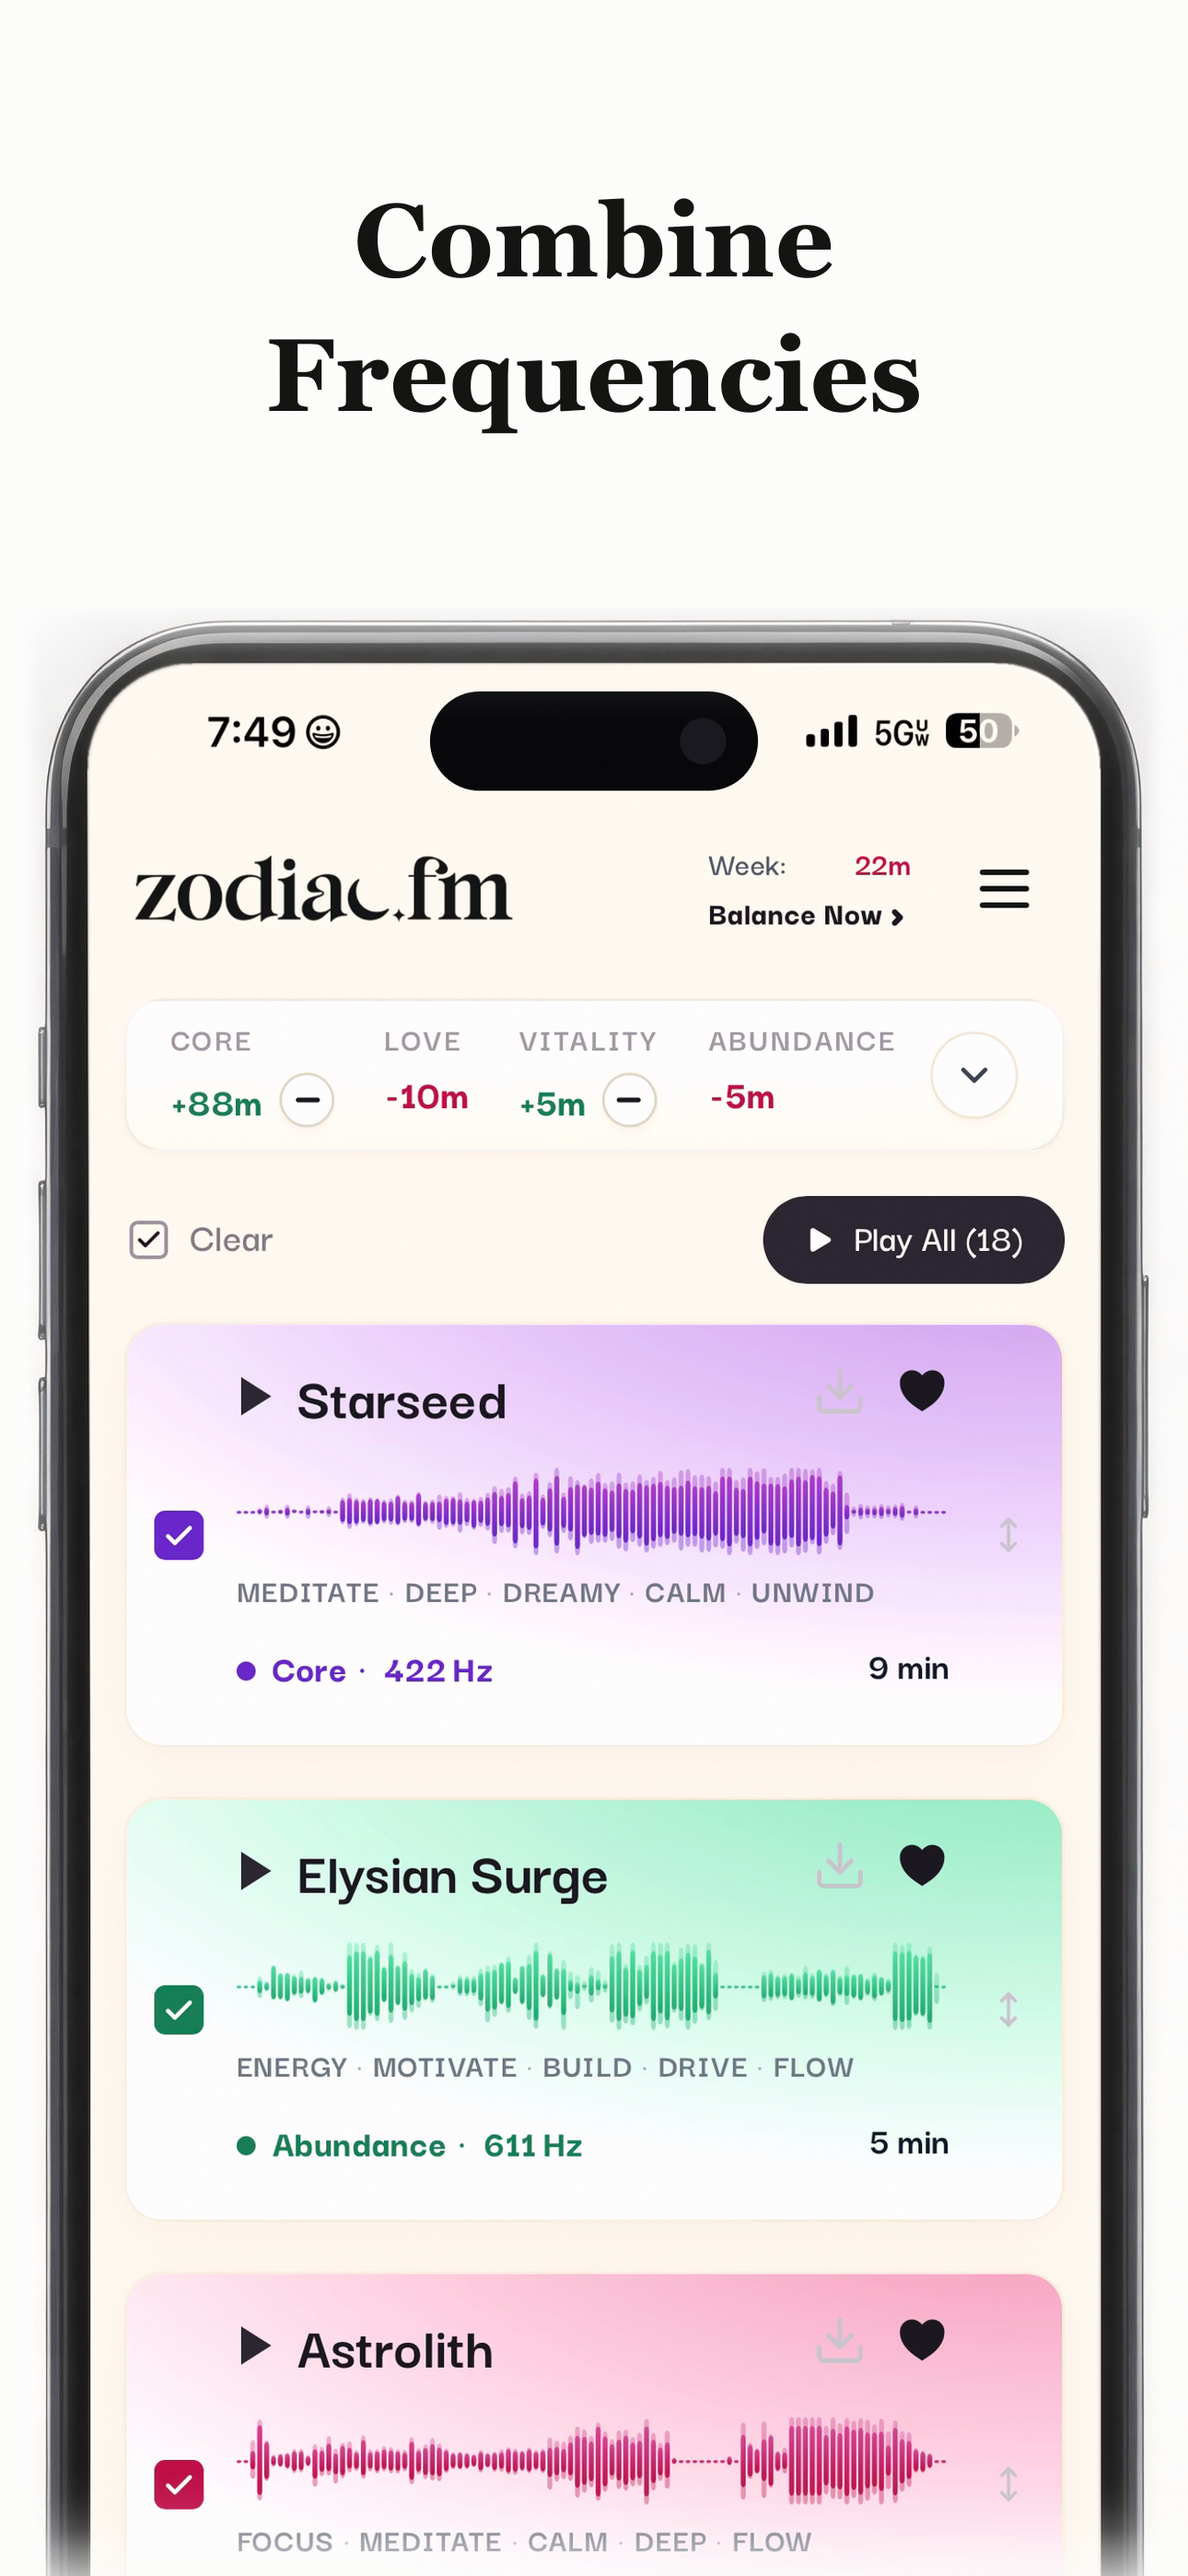
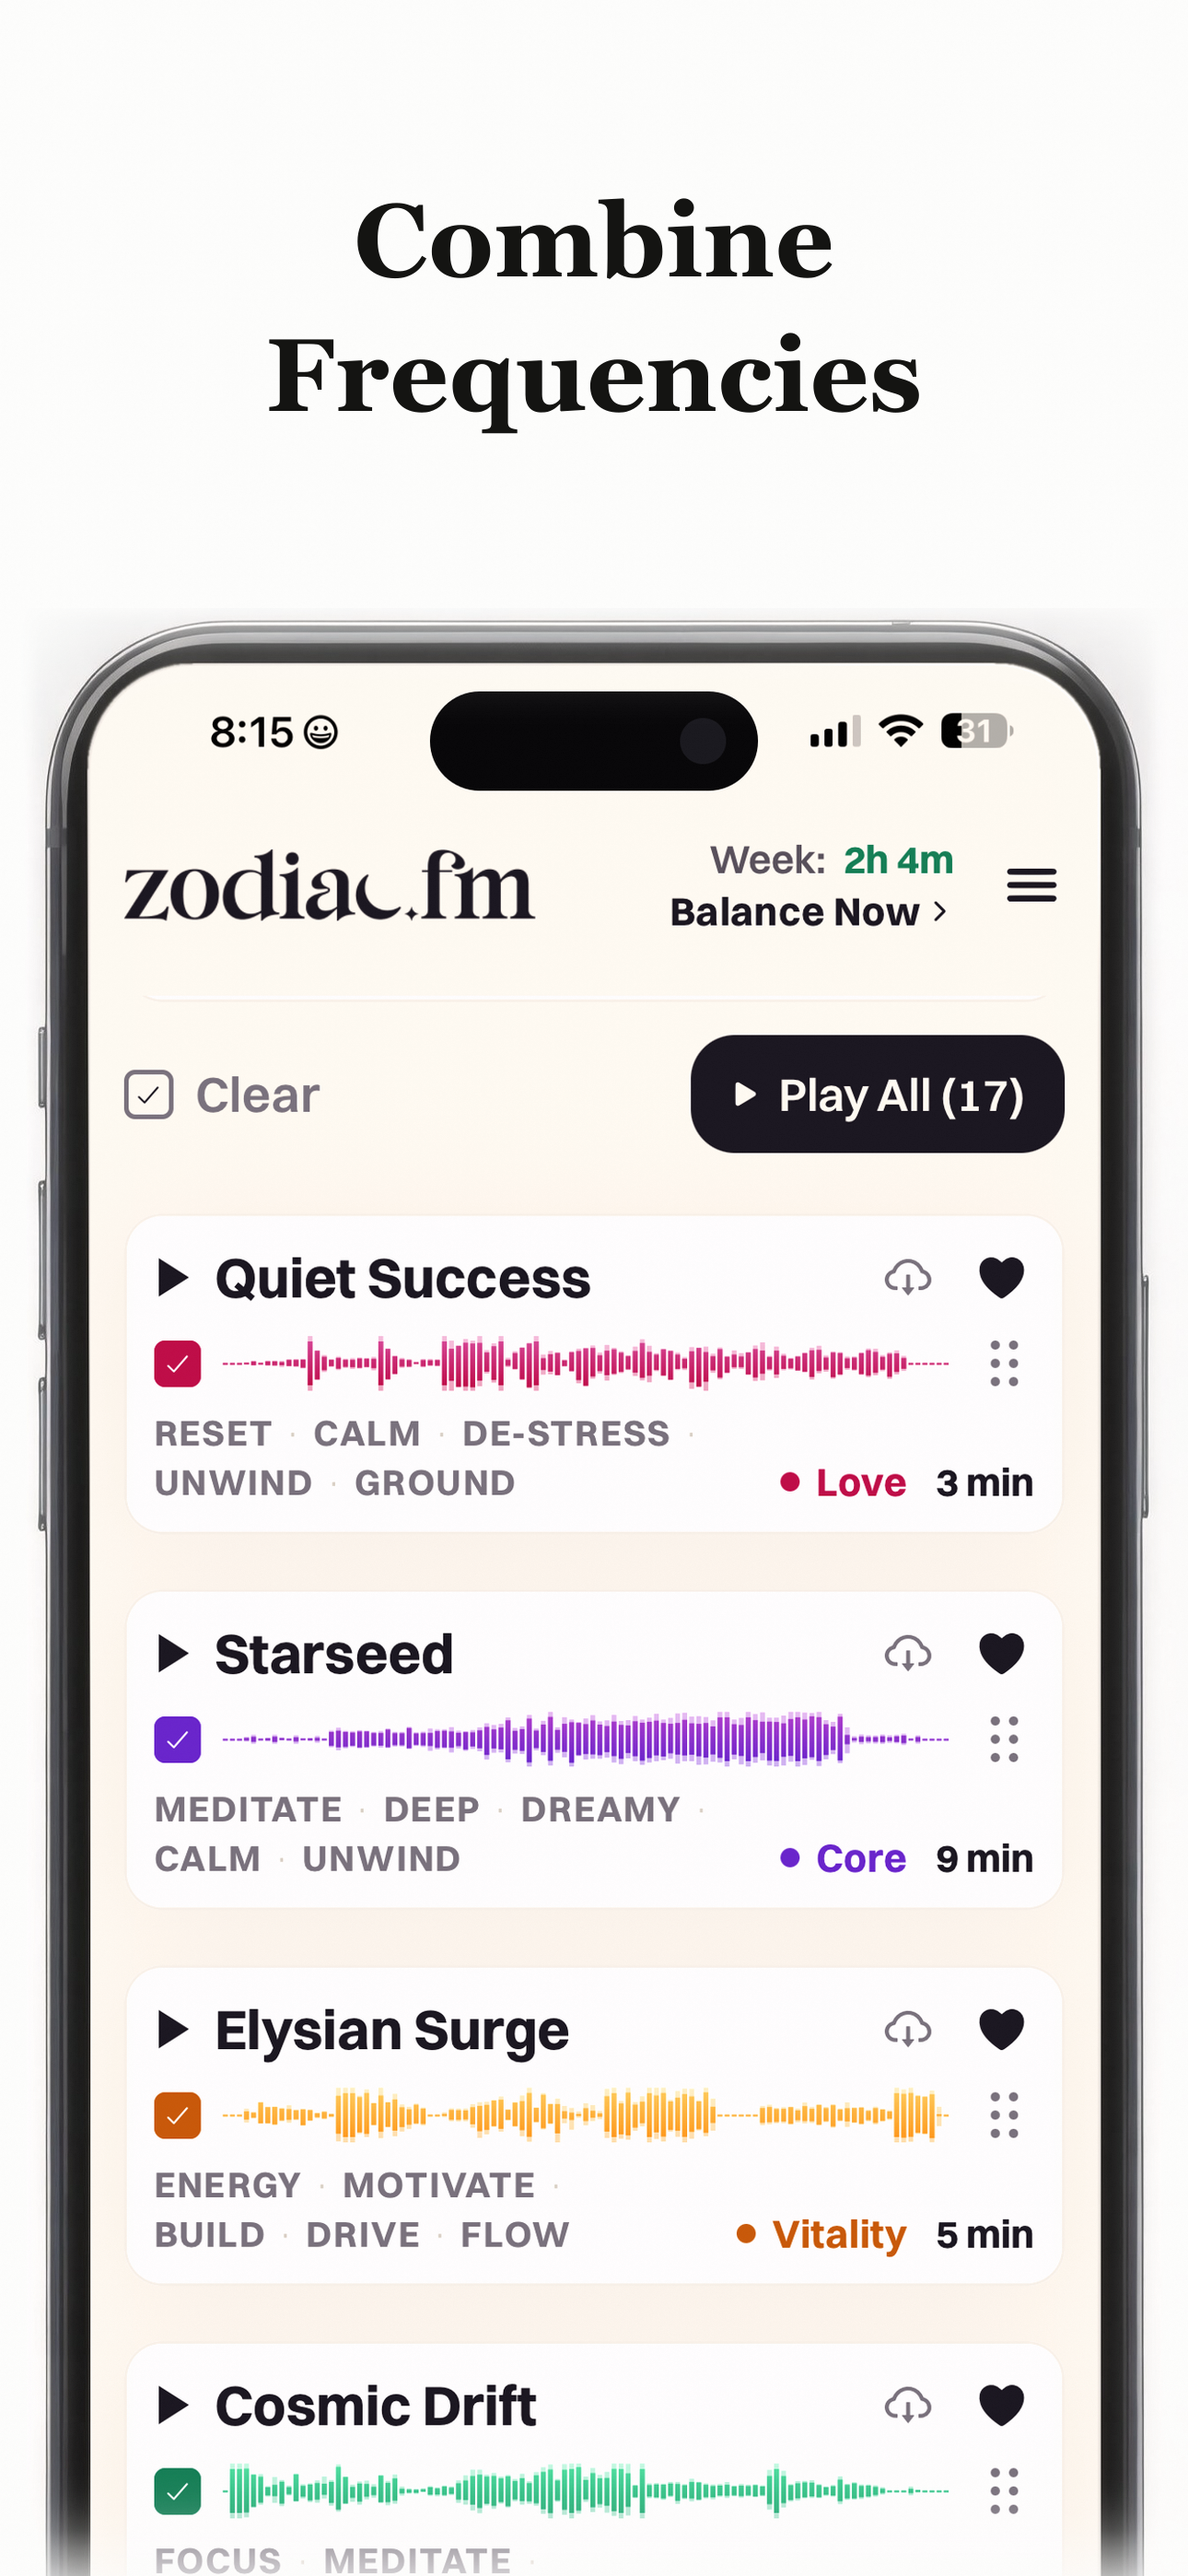
Replace iPhone App Store frame 04

diff --git a/site/styleguide-8-4-library.html b/site/styleguide-8-4-library.html
@@ -4,16 +4,14 @@
   This file IS the current style guide library. Edit THIS file — never fork a numbered copy
   and never hand anyone a versioned URL for this surface.
   ZFM-CURRENT: /site/styleguide-library
-  ZFM-INTERNAL-VERSION: 8-5
+  ZFM-INTERNAL-VERSION: 8-4
   To bump the version: copy this file to site/styleguide-<n>-library.html
   as a frozen snapshot FIRST, then edit this file and raise ZFM-INTERNAL-VERSION.
   Rule: Michael, 2026-08-26 — "always just have the current one be the main url string".
   Applies to reference surfaces only (libraries, style guides, directories),
   never to landers, sites, or design rounds, which stay versioned.
 
-  8-5 replaces iPhone App Store Frame 04 with the exact current iPhone Playlist
-  source, refreshes the seven-frame sequence board, and adds the direct final-PNG
-  download. 8-4 adds the real current iPad Love player capture, confirms the current app
+  8-4 adds the real current iPad Love player capture, confirms the current app
   is configured iPhone-only, retires the native iPad promotional gallery from
   the current submission, and locks iPhone 04 as the only App Store frame requiring
   rebuild. 8-3 adds the real current iPhone and iPad iOS Playlist screenshots as the
@@ -31,7 +29,7 @@
 <head>
 <meta charset="utf-8">
 <meta name="viewport" content="width=device-width, initial-scale=1">
-<title>Zodiac.fm Style Guide Library 8-5 · The Bank + iPhone App + iPad Reference + The Testimonial Bank</title>
+<title>Zodiac.fm Style Guide Library 8-4 · The Bank + iPhone App + iPad App + The Testimonial Bank</title>
 <link rel="preconnect" href="https://fonts.googleapis.com">
 <link rel="preconnect" href="https://fonts.gstatic.com" crossorigin>
 <link href="https://fonts.googleapis.com/css2?family=Cormorant+Garamond:ital,wght@0,500;0,600;1,500&display=swap" rel="stylesheet">
@@ -252,10 +250,10 @@
 
 <div class="bannerwrap">
   <div class="banner">
-    <div class="tag">Current &middot; one library &middot; version 8-5</div>
+    <div class="tag">Current &middot; one library &middot; version 8-4</div>
     <div class="line">THE STYLE GUIDE LIBRARY. The current iPhone App Store gallery, real iOS source captures, the bank sorted by treatment, the old subject filing kept as an index, and the testimonial bank.</div>
     <div class="sub">This is the one current library. Prior cuts are preserved as numbered snapshots and are never edited again. Run by <b>Iris</b> (art) and <b>Ansel</b> (second eye, builder) on Michael&#x27;s word, <b>2026-08-28</b>. The rules that govern a page live on the style guide at <b>/site/styleguide</b>.</div>
-    <div class="date">Version 8-5 &middot; 2026-09-04</div>
+    <div class="date">Version 8-4 &middot; 2026-09-03</div>
   </div>
 </div>
 
@@ -278,8 +276,8 @@
       <a class="capture-stage" href="/site/assets/iphone-app/real-screens/playlist-ios-app-iphone-2026-09-03.png" download><img loading="eager" src="/site/assets/iphone-app/real-screens/playlist-ios-app-iphone-2026-09-03.png" alt="Real current ZodiacFM iPhone iOS Playlist screen with four frequency-colored tracks"></a>
       <figcaption><b class="pid">iPhone &middot; Real Screen 01</b><span class="ttl">Playlist &middot; Current iOS Source</span><span class="recipe"><i>SOURCE</i> Unmodified <span class="num">1125 × 2436</span> RGB PNG supplied from the live iOS app on <span class="num">2026-09-03</span>. Use this screen, not the older Playlist capture, when building websites or replacement App Store images. Preserve interface content and proportions exactly.</span><a class="download" href="/site/assets/iphone-app/real-screens/playlist-ios-app-iphone-2026-09-03.png" download>Download Original PNG</a></figcaption>
     </figure>
-    <div class="subhead">Current iPhone App Store gallery &middot; Frame 04 replaced</div>
-    <p class="note">The complete seven-frame campaign now uses the current real Playlist interface in Frame 04. Every frame below is the current accepted iPhone App Store master.</p>
+    <div class="subhead">Previous accepted App Store gallery &middot; Frame 04 rebuild required</div>
+    <p class="note">The seven-frame sequence below remains the accepted campaign baseline, but iPhone Frame 04 must be rebuilt from Real Screen 01 before submission. Every other iPhone frame remains accepted.</p>
     <figure class="exfig">
       <img loading="eager" src="/site/assets/iphone-app/ios-app-photos-board.png" alt="The complete accepted seven-frame iPhone App Store gallery in sequence">
       <figcaption><span class="ttl">Sequence authority</span><span class="cap">The labeled iOS App Photos board. Frames <b>1–7</b> run in this exact order.</span></figcaption>
@@ -299,7 +297,7 @@
       </figure>
       <figure class="photo" id="iphone-app-04">
         <img loading="lazy" src="/site/assets/iphone-app/zodiac-appstore-04-combine-frequencies.png" alt="Combine Frequencies iPhone App Store frame">
-        <figcaption><b class="pid">iPhone &middot; 04 &middot; Current</b><span class="ttl">Combine Frequencies</span><span class="recipe"><i>ROLE</i> Current Playlist and multi-frequency selection.</span><a class="download" href="/site/assets/iphone-app/zodiac-appstore-04-combine-frequencies.png" download>Download Frame 04 PNG</a></figcaption>
+        <figcaption><b class="pid">iPhone &middot; 04 &middot; Rebuild required</b><span class="ttl">Combine Frequencies</span><span class="recipe"><i>STATUS</i> Historical baseline only. Rebuild from iPhone Real Screen 01.</span></figcaption>
       </figure>
       <figure class="photo" id="iphone-app-05">
         <img loading="lazy" src="/site/assets/iphone-app/zodiac-appstore-05-every-track-tuned.png" alt="Every Track, Tuned to You iPhone App Store frame">
